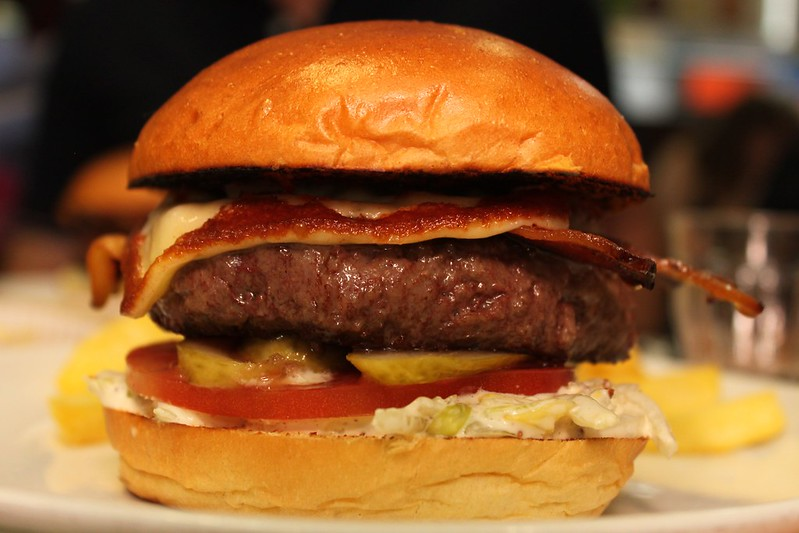
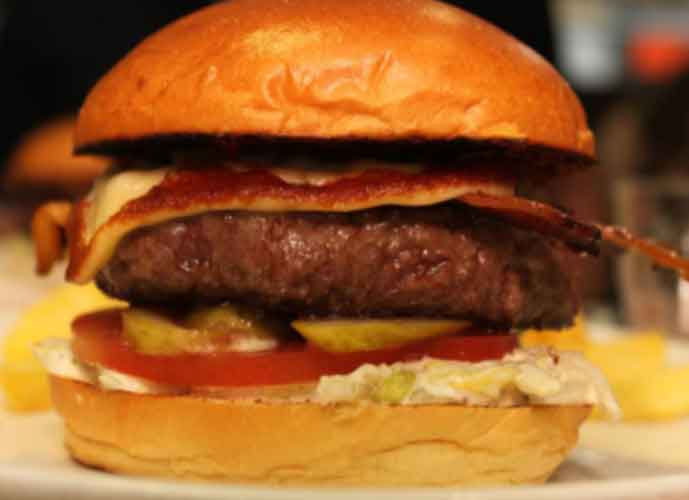
Images.

diff --git a/menu-wokdeals.html b/menu-wokdeals.html
@@ -104,8 +104,8 @@
           </tr>
           <tr>
             <td><img src="./img/chicken1.jpg" alt="Chicken Burger" class="menuimg"></td>
-            <td><img src="./img/burger2.jpg" alt="Burger1" class="menuimg"></td>
-            <td><img src="./img/no-cc-burger1.png" alt="Winniemeal" class="menuimg"></td>
+            <td><img src="./img/burger4.jpg" alt="Burger1" class="menuimg"></td>
+            <td><img src="./img/no-menu-found.jpg" alt="Winniemeal" class="menuimg"></td>
           </tr>
         </table>
 
